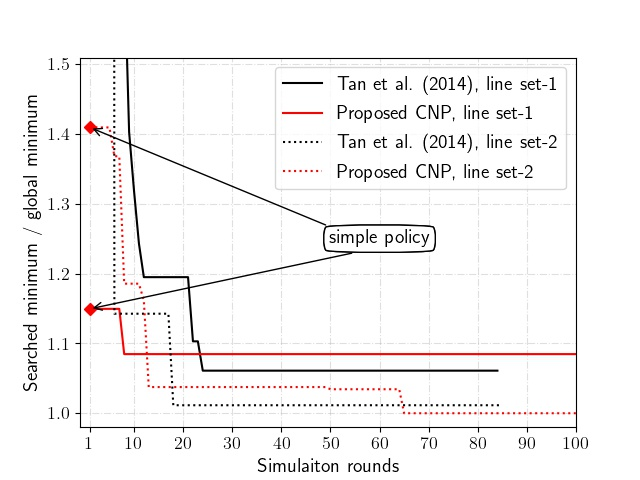
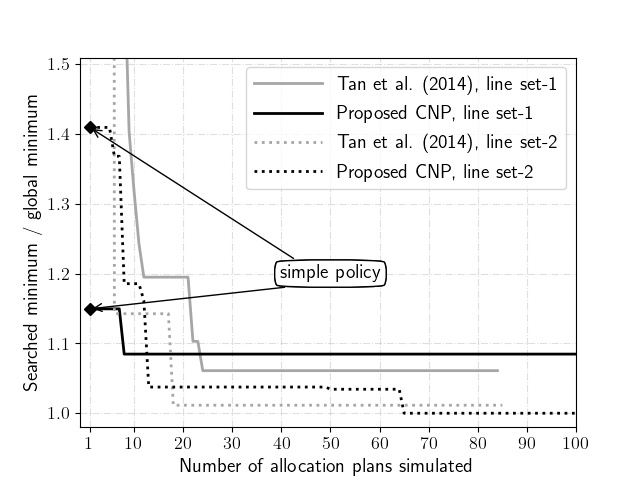
draft v2 figures updated

diff --git a/plot_c=2.py b/plot_c=2.py
@@ -11,26 +11,25 @@ total_flow = 135
 arrival_type = "Gaussian"
 mean_service = 25
 signal_setting = None
-# signal_setting = (120, 0.5, 3)
+signal_setting = (120, 0.5, 3)
 
 ### figure setting
 # line_styles_dict = {"FIFO": "solid", "LO-Out": "dashed", "FO-Free": "dotted"}
 
 # algo_line_colors_dict = {"Tan": "#ff1654", "CNP": "#0a1128"}
-algo_line_colors_dict = {"Tan": "black", "CNP": "red"}
-setno_styles_dict = {0: "solid", 1: "dashed", 2: "dotted"}
+algo_line_colors_dict = {"Tan": "0.65", "CNP": "0"}
+# setno_styles_dict = {0: "solid", 1: "dashed", 2: "dotted"}
 setno_styles_dict = {0: "solid", 1: "dotted", 2: "dashed"}
 
 if signal_setting is None:
-    ann_text_pos = {"FIFO": (60, 1.07), "LO-Out": (50, 1.20), "FO-Free": (60, 1.13)}
+    ann_text_pos = {"FIFO": (50, 1.06), "LO-Out": (50, 1.15), "FO-Free": (50, 1.06)}
 else:
-    ann_text_pos = {"FIFO": (60, 1.03), "LO-Out": (60, 1.25), "FO-Free": (70, 1.08)}
+    ann_text_pos = {"FIFO": (50, 1.04), "LO-Out": (50, 1.2), "FO-Free": (50, 1.07)}
 
 for queue_rule in ["FIFO", "LO-Out", "FO-Free"]:
     ### generate figures for each queueing rule
     fig, ax = get_curve_plot(
-        # x_label="simulaiton rounds", y_label="$\frac{delay}{global minima}$"
-        x_label="Simulaiton rounds",
+        x_label="Number of allocation plans simulated",
         y_label="Searched minimum / global minimum",
         x_font=14,
         y_font=14,
@@ -73,7 +72,7 @@ for queue_rule in ["FIFO", "LO-Out", "FO-Free"]:
             tan_norm_history_delays,
             color=algo_line_colors_dict["Tan"],
             linestyle=setno_styles_dict[set_no],
-            linewidth=1.5,
+            linewidth=2.0,
             label=tan_label,
         )
         cnp_label = "Proposed CNP, line set-" + str(set_str_count)
@@ -82,7 +81,7 @@ for queue_rule in ["FIFO", "LO-Out", "FO-Free"]:
             cnp_norm_history_delays,
             color=algo_line_colors_dict["CNP"],
             linestyle=setno_styles_dict[set_no],
-            linewidth=1.5,
+            linewidth=2.0,
             label=cnp_label,
         )
         line_flow, line_service, line_rho = get_generated_line_info(
@@ -105,9 +104,9 @@ for queue_rule in ["FIFO", "LO-Out", "FO-Free"]:
             ),
         )
         ax.plot(
-            x_cnp[0], cnp_norm_history_delays[0], "rD",
+            x_cnp[0], cnp_norm_history_delays[0], "kD",
         )
-        ax.legend(fontsize=14)
+        ax.legend(handlelength=3.5, fontsize=14)
         y_max_lim = max(cnp_norm_history_delays[0], y_max_lim)
         set_str_count += 1
 

diff --git a/plot_c=4.py b/plot_c=4.py
@@ -14,7 +14,7 @@ line_num = 12
 arrival_type = "Gaussian"
 queue_rule = "FIFO"
 signal_setting = None
-# signal_setting = (120, 0.5, 3)
+signal_setting = (120, 0.5, 3)
 
 db_query = {
     "config.queue_rule": queue_rule,
@@ -22,6 +22,13 @@ db_query = {
     "config.line_num": line_num,
     "config.arrival_type": arrival_type,
 }
+
+if signal_setting is not None:
+    db_query["config.cycle_length"] = signal_setting[0]
+else:
+    db_query["config.cycle_length"] = None
+
+
 if signal_setting is None:
     db_query["config.signal_setting"] = None
 else:
@@ -87,7 +94,7 @@ ax.annotate(
     ),
 )
 ax.plot(
-    cnp_x[0], cnp_delays[0], "rD",
+    cnp_x[0], cnp_delays[0], "kD",
 )
 
 if signal_setting is not None:

diff --git a/signal_main_perturb.py b/signal_main_perturb.py
@@ -17,7 +17,7 @@ def config():
     is_CNP = False  # True means using CNP, otherwise means perturbation
     cycle_length = 120
     green_ratio = 0.5
-    buffer_size = 2
+    buffer_size = 3
 
 
 def run(assign_plan_str):
@@ -31,7 +31,7 @@ def run(assign_plan_str):
 perturb_num = 500
 berth_num, line_num = config()["berth_num"], config()["line_num"]
 enumerator = random_assign_plan_enumerator(line_num, berth_num, perturb_num)
-with futures.ProcessPoolExecutor(max_workers=16) as executor:
+with futures.ProcessPoolExecutor(max_workers=18) as executor:
     tasks = [executor.submit(run, str(assign_plan)) for assign_plan in enumerator]
     for future in futures.as_completed(tasks):
         pass

diff --git a/signal_scenario.py b/signal_scenario.py
@@ -23,7 +23,7 @@ def sim_one_NS_scenario(
     ######## hyper-parameters ########
     max_tolerance_delay = paras.max_tolerance_delay  # seconds
     each_eval_interval = 3600 * 10
-    total_eval_num = 150  # 600
+    total_eval_num = 130  # 600
     epoch_num = total_eval_num * each_eval_interval  # the total number of epochs
 
     minimum_eval_num = 50  # 150
